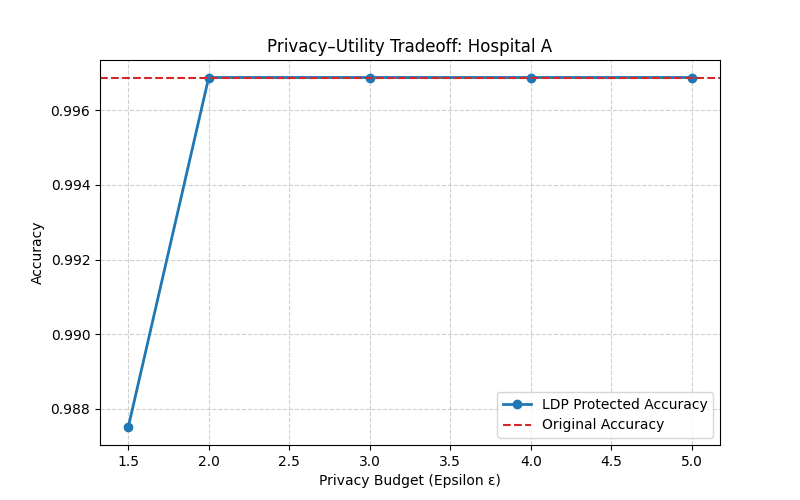
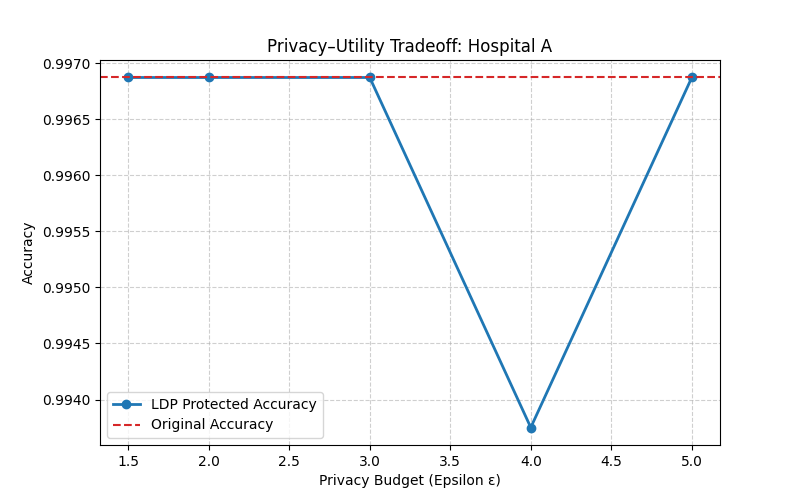
Low resource objective as been implemented

diff --git a/notebooks/local_gnn_training.py b/notebooks/local_gnn_training.py
@@ -3,6 +3,7 @@ import torch.nn.functional as F
 import os
 import sys
 from sklearn.metrics import accuracy_score
+from resource_monitor import ResourceMonitor
 
 # Ensure pathing for GCN model import
 sys.path.append(os.path.abspath(".."))
@@ -10,22 +11,25 @@ from data.models.gcn_model import GCN
 
 device = torch.device("cuda" if torch.cuda.is_available() else "cpu")
 
-def train_local_model(graph_path, epochs=100, lr=0.01):
+def train_local_model(graph_path, epochs=100, lr=0.01, hospital_name="Hospital"):
     if not os.path.exists(graph_path):
         print(f"Error: Graph file {graph_path} not found.")
         return None
 
     graph = torch.load(graph_path, weights_only=False).to(device)
 
-    # Initialize Model with fixed 24 features or dynamic from graph
     model = GCN(
-        input_dim=graph.num_node_features, 
+        input_dim=graph.num_node_features,
         hidden_dim=32,
         output_dim=2
     ).to(device)
 
     optimizer = torch.optim.Adam(model.parameters(), lr=lr)
     criterion = torch.nn.CrossEntropyLoss()
+
+    # RESOURCE MONITOR
+    monitor = ResourceMonitor()
+    monitor.start_timer()
 
     model.train()
     for epoch in range(epochs):
@@ -35,8 +39,12 @@ def train_local_model(graph_path, epochs=100, lr=0.01):
         loss.backward()
         optimizer.step()
 
-        if epoch % 20 == 0:
-            print(f"[{os.path.basename(graph_path)}] Epoch {epoch:03d} | Loss: {loss.item():.4f}")
+    training_time = monitor.stop_timer()
+    memory_used = monitor.memory_usage_mb()
+
+    print(f"\n[{hospital_name}] RESOURCE USAGE")
+    print(f"Training Time   : {training_time:.2f} seconds")
+    print(f"Memory Usage    : {memory_used:.2f} MB")
 
     return model
 
@@ -71,22 +79,22 @@ def main():
 
     for h in hospitals:
         graph_path = os.path.join(graph_dir, f"graph_{h}.pt")
-        print(f"\n--- Training Hospital {h} (UCI if A, Kaggle if B, Synth if C) ---")
-        
-        model = train_local_model(graph_path)
-        
+        print(f"\n--- Training Hospital {h} ---")
+
+        model = train_local_model(
+            graph_path,
+            hospital_name=f"Hospital {h}"
+        )
+
         if model:
-            # We evaluate against the training graph directly for this phase
-            graph = torch.load(graph_path, weights_only=False).to(device)
-            model.eval()
-            with torch.no_grad():
-                logits = model(graph.x, graph.edge_index)
-                acc = accuracy_score(graph.y.cpu(), logits.argmax(dim=1).cpu())
-            
-            print(f"Hospital {h} Training Accuracy: {acc:.4f}")
-            
             save_path = os.path.join(model_save_dir, f"model_{h}.pth")
             torch.save(model.state_dict(), save_path)
+
+            # COMMUNICATION COST
+            from resource_monitor import ResourceMonitor
+            size_mb = ResourceMonitor.model_size_mb(save_path)
+            print(f"Model Communication Cost: {size_mb:.2f} MB")
+
 
     print("\nLocal models saved successfully.")
 

diff --git a/notebooks/resource_monitor.py b/notebooks/resource_monitor.py
@@ -1,0 +1,23 @@
+import time
+import os
+import psutil
+
+class ResourceMonitor:
+    def __init__(self):
+        self.start_time = None
+        self.process = psutil.Process(os.getpid())
+
+    def start_timer(self):
+        self.start_time = time.time()
+
+    def stop_timer(self):
+        return time.time() - self.start_time
+
+    def memory_usage_mb(self):
+        return self.process.memory_info().rss / (1024 ** 2)
+
+    @staticmethod
+    def model_size_mb(model_path):
+        if not os.path.exists(model_path):
+            return 0.0
+        return os.path.getsize(model_path) / (1024 ** 2)
